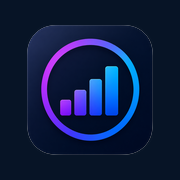
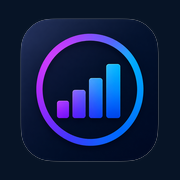
fix: PWA 홈화면 아이콘 5% 확대 + 스플래시 덜컹 현상 수정
- 홈화면 설치 아이콘 아트웍 72% → 77%로 확대 (소스 NOBG 크롭 방식)
- login-screen을 position:fixed;inset:0으로 변경 → 스크롤 오프셋 영향 차단
- 스플래시 fade-out 직전 이중 rAF + scrollTo(0,0)으로 레이아웃 안정화
- 소스 파일 PortView_ICON(NOBG).png 추가

diff --git a/dist/sw.js b/dist/sw.js
@@ -1,1 +1,1 @@
-if(!self.define){let e,i={};const n=(n,s)=>(n=new URL(n+".js",s).href,i[n]||new Promise(i=>{if("document"in self){const e=document.createElement("script");e.src=n,e.onload=i,document.head.appendChild(e)}else e=n,importScripts(n),i()}).then(()=>{let e=i[n];if(!e)throw new Error(`Module ${n} didn’t register its module`);return e}));self.define=(s,r)=>{const o=e||("document"in self?document.currentScript.src:"")||location.href;if(i[o])return;let t={};const l=e=>n(e,o),c={module:{uri:o},exports:t,require:l};i[o]=Promise.all(s.map(e=>c[e]||l(e))).then(e=>(r(...e),t))}}define(["./workbox-9c191d2f"],function(e){"use strict";self.skipWaiting(),e.clientsClaim(),e.precacheAndRoute([{url:"index.html",revision:"e4b0c060be693aa249b988f92e494add"},{url:"assets/workbox-window.prod.es5-BBnX5xw4.js",revision:null},{url:"assets/index-DGrverHF.js",revision:null},{url:"assets/index-CwEEWJmn.css",revision:null},{url:"portview-icon-192.png",revision:"f47c5cfb0a1640ac12d49f4dee245a69"},{url:"portview-icon-512.png",revision:"5c00c8ac5f620beb2685bb71336da565"},{url:"manifest.webmanifest",revision:"2777261a51d7549c56d8a90134afefab"}],{}),e.cleanupOutdatedCaches(),e.registerRoute(new e.NavigationRoute(e.createHandlerBoundToURL("index.html")))});
+if(!self.define){let e,i={};const n=(n,s)=>(n=new URL(n+".js",s).href,i[n]||new Promise(i=>{if("document"in self){const e=document.createElement("script");e.src=n,e.onload=i,document.head.appendChild(e)}else e=n,importScripts(n),i()}).then(()=>{let e=i[n];if(!e)throw new Error(`Module ${n} didn’t register its module`);return e}));self.define=(s,r)=>{const o=e||("document"in self?document.currentScript.src:"")||location.href;if(i[o])return;let t={};const c=e=>n(e,o),l={module:{uri:o},exports:t,require:c};i[o]=Promise.all(s.map(e=>l[e]||c(e))).then(e=>(r(...e),t))}}define(["./workbox-9c191d2f"],function(e){"use strict";self.skipWaiting(),e.clientsClaim(),e.precacheAndRoute([{url:"index.html",revision:"007195c475507adc4b915a2b81bc2652"},{url:"assets/workbox-window.prod.es5-BBnX5xw4.js",revision:null},{url:"assets/index-Ddgc7uwP.css",revision:null},{url:"assets/index-C95sTcCg.js",revision:null},{url:"portview-icon-192.png",revision:"2ad02fc7c8e43bae2da1a24929c35ff0"},{url:"portview-icon-512.png",revision:"9e06e2838f27ec0deca2180d68096471"},{url:"manifest.webmanifest",revision:"2777261a51d7549c56d8a90134afefab"}],{}),e.cleanupOutdatedCaches(),e.registerRoute(new e.NavigationRoute(e.createHandlerBoundToURL("index.html")))});

diff --git a/dist/index.html b/dist/index.html
@@ -7,8 +7,8 @@
     <link rel="icon" href="/portview-icon-192.png" />
     <link rel="apple-touch-icon" href="/portview-icon-180.png" />
     <title>PortView</title>
-    <script type="module" crossorigin src="/assets/index-DGrverHF.js"></script>
-    <link rel="stylesheet" crossorigin href="/assets/index-CwEEWJmn.css">
+    <script type="module" crossorigin src="/assets/index-C95sTcCg.js"></script>
+    <link rel="stylesheet" crossorigin href="/assets/index-Ddgc7uwP.css">
   <link rel="manifest" href="/manifest.webmanifest"></head>
   <body>
     <div id="splash-overlay" style="position:fixed;inset:0;background:#071426;display:grid;place-items:center;z-index:9999;transition:opacity 0.25s ease;pointer-events:none;">

diff --git a/src/App.tsx b/src/App.tsx
@@ -3272,8 +3272,11 @@ export default function App() {
     const splash = document.getElementById('splash-overlay');
     if (!splash) return;
     const raf = requestAnimationFrame(() => {
-      splash.style.opacity = '0';
-      setTimeout(() => splash.remove(), 280);
+      requestAnimationFrame(() => {
+        window.scrollTo(0, 0);
+        splash.style.opacity = '0';
+        setTimeout(() => splash.remove(), 280);
+      });
     });
     return () => cancelAnimationFrame(raf);
   }, []);

diff --git a/src/styles.css b/src/styles.css
@@ -63,14 +63,14 @@ button:disabled {
 }
 
 .login-screen {
-  height: 100svh;
+  position: fixed;
+  inset: 0;
   display: grid;
   place-items: center;
   padding: 24px;
   background:
     radial-gradient(circle at 10% 20%, rgba(124, 77, 255, 0.15) 0%, transparent 45%),
     radial-gradient(circle at 90% 80%, rgba(0, 180, 216, 0.12) 0%, transparent 45%);
-  position: relative;
   z-index: 2;
   overflow: hidden;
 }
